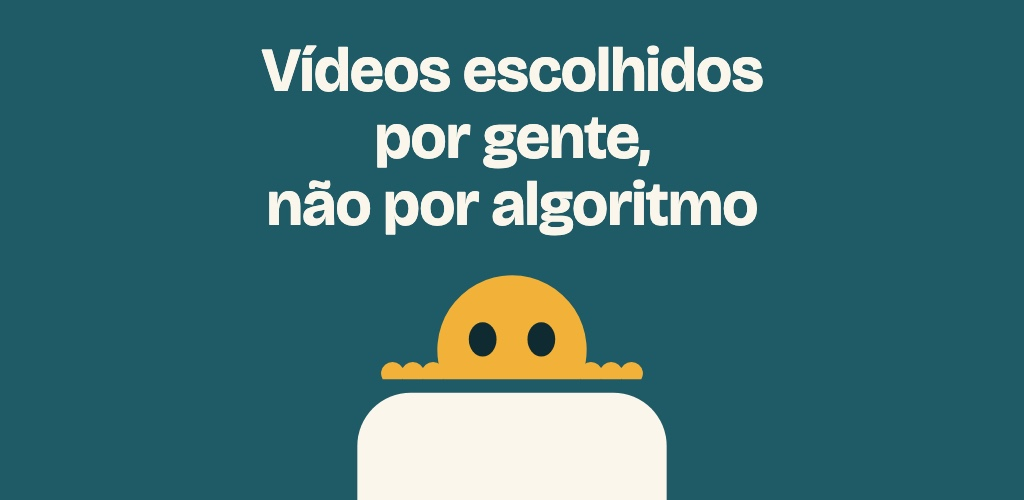
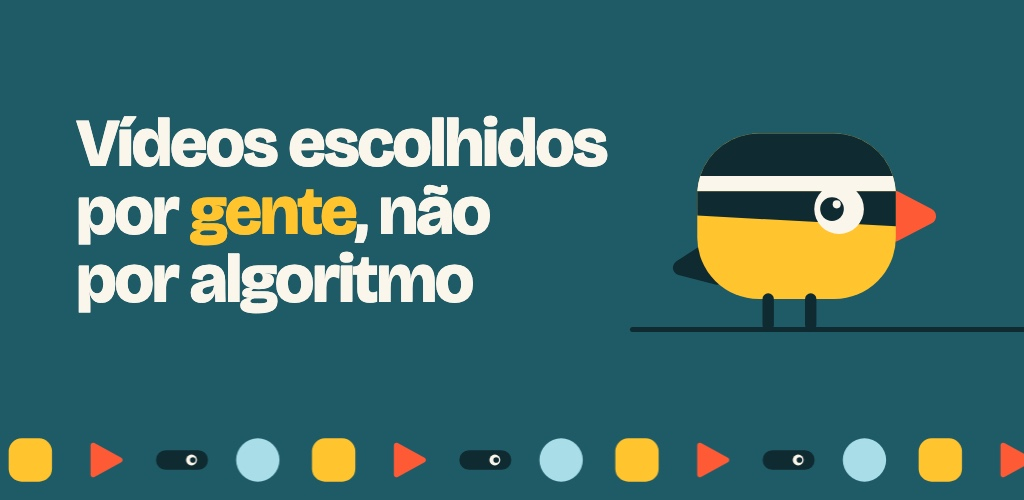
feat(stores): draw the Play feature graphic with the current mascot and sun

diff --git a/app/store_screens/feature.html b/app/store_screens/feature.html
@@ -6,10 +6,12 @@
   <!--
     The Google Play feature graphic, 1024x500: the link preview card's
     composition at the Play size. compose.sh renders it with headless Chrome.
-    Play may crop the edges and lay its own button over the middle, so the
-    headline stays inside the central 600 px. If the brand font does not
-    load, the page stays blank, so the render is caught instead of shipping
-    a fallback.
+    The headline and the mascot are the generated brand drawings and the
+    brand font, kept well inside the edges, which Play may crop; only the
+    wire and the row of the brand pattern run off them. The app's name
+    already sits under the image in the listing, so the wordmark stays out.
+    If the brand font or a drawing does not load, the page stays blank, so
+    the render is caught instead of shipping a fallback.
   -->
   <style>
     @font-face {
@@ -20,8 +22,9 @@
 
     :root {
       --ink: #1E5B66;
-      --sun: #F2B23A;
+      --sun: #FFC42E;
       --cream: #FBF6EC;
+      --dark: #0F2A30;
     }
 
     html,
@@ -40,23 +43,21 @@
       overflow: hidden;
     }
 
-    h1 {
-      position: absolute;
-      top: 38px;
-      left: 212px;
-      right: 212px;
-      margin: 0;
-      text-align: center;
-      font-family: "Bricolage Grotesque", sans-serif;
-      font-weight: 700;
-      font-size: 62px;
-      line-height: 1.08;
-      letter-spacing: -0.015em;
-      color: var(--cream);
-    }
-
     .blank > * {
       display: none;
+    }
+
+    h1 {
+      position: absolute;
+      top: 110px;
+      left: 76px;
+      margin: 0;
+      font-family: "Bricolage Grotesque", sans-serif;
+      font-weight: 800;
+      font-size: 68px;
+      line-height: 1;
+      letter-spacing: -0.035em;
+      color: var(--cream);
     }
 
     h1 span {
@@ -64,40 +65,67 @@
       white-space: nowrap;
     }
 
-    /* The telinha runs off the bottom edge: only the head, the fingers
-       and the top of the screen show, so the mark peeks into the card. */
-    .mark {
+    h1 em {
+      font-style: normal;
+      color: var(--sun);
+    }
+
+    /* The mascot perched on a wire, looking back at the words. */
+    .wire {
       position: absolute;
-      left: 352px;
-      top: 270px;
-      width: 320px;
-      height: auto;
+      left: 630px;
+      right: -20px;
+      top: 327px;
+      height: 5px;
+      border-radius: 3px;
+      background: var(--dark);
+    }
+
+    .mascot {
+      position: absolute;
+      left: 650px;
+      top: 72px;
+      width: 312px;
+      height: 312px;
+    }
+
+    /* One row of the brand pattern along the bottom edge. */
+    .pattern {
+      position: absolute;
+      left: 0;
+      right: 0;
+      bottom: 0;
+      height: 80px;
+      background: url("../../site/public/brand/telinha-segura-pattern-row.svg") left center / auto 80px repeat-x;
     }
   </style>
 </head>
 <body>
   <div class="card">
-    <h1><span>Vídeos escolhidos</span><span>por gente,</span><span>não por algoritmo</span></h1>
-    <!-- The Espiadinha: the head and fingers peek over an empty telinha. -->
-    <svg class="mark" viewBox="2 4 60 57" aria-hidden="true">
-      <path fill="#FBF6EC" d="M13 27H51A10 10 0 0 1 61 37V50A10 10 0 0 1 51 60H13A10 10 0 0 1 3 50V37A10 10 0 0 1 13 27Z"/>
-      <path fill="#F2B23A" d="M19.126 24.5A14 14 0 1 1 44.874 24.5Z"/>
-      <path fill="#F2B23A" d="M7.753 24.5A2.15 2.15 0 1 1 11.447 24.5ZM11.553 24.5A2.15 2.15 0 1 1 15.247 24.5ZM15.353 24.5A2.15 2.15 0 1 1 19.047 24.5ZM44.953 24.5A2.15 2.15 0 1 1 48.647 24.5ZM48.753 24.5A2.15 2.15 0 1 1 52.447 24.5ZM52.553 24.5A2.15 2.15 0 1 1 56.247 24.5Z"/>
-      <ellipse fill="#0F2A30" cx="26.5" cy="17" rx="2.6" ry="3.2"/>
-      <ellipse fill="#0F2A30" cx="37.5" cy="17" rx="2.6" ry="3.2"/>
-    </svg>
+    <h1><span>Vídeos escolhidos</span><span>por <em>gente</em>, não</span><span>por algoritmo</span></h1>
+    <div class="wire"></div>
+    <img class="mascot" src="../../site/public/brand/telinha-segura-mark-looking-back-color.svg" alt="">
+    <div class="pattern"></div>
   </div>
   <script>
-    const brand = '700 10px "Bricolage Grotesque"';
+    const brand = '800 10px "Bricolage Grotesque"';
     const card = document.querySelector(".card");
+    const mascot = document.querySelector(".mascot");
     card.classList.add("blank");
-    document.fonts.load(brand).then(() => document.fonts.ready).then(() => {
-      const loaded = [...document.fonts].some(
-        (f) => f.family.includes("Bricolage Grotesque") && f.status === "loaded");
-      if (loaded && document.fonts.check(brand)) {
-        card.classList.remove("blank");
-      }
-    });
+    const drawn = mascot.complete
+      ? Promise.resolve(mascot.naturalWidth > 0)
+      : new Promise((done) => {
+        mascot.addEventListener("load", () => done(true));
+        mascot.addEventListener("error", () => done(false));
+      });
+    Promise.all([document.fonts.load(brand).then(() => document.fonts.ready), drawn])
+      .then(([, ok]) => {
+        const loaded = [...document.fonts].some(
+          (f) => f.family.includes("Bricolage Grotesque") && f.status === "loaded");
+        if (ok && loaded && document.fonts.check(brand)) {
+          card.classList.remove("blank");
+        }
+      });
   </script>
 </body>
 </html>

diff --git a/tools/repoconfig/store_images_test.go b/tools/repoconfig/store_images_test.go
@@ -199,3 +199,25 @@ func TestPlayIconIsThePlaySize(t *testing.T) {
 		t.Errorf("icon is %dx%d, want 512x512", cfg.Width, cfg.Height)
 	}
 }
+
+// The feature graphic shows the mascot the app shows: the generated brand
+// drawing, the brand's sun, and nothing of the mascot the listing showed
+// before (its name, the head and fingers drawn inline over an empty
+// screen, or the older, duller sun).
+func TestFeatureGraphicShowsTheCurrentMascot(t *testing.T) {
+	src := read(t, "app/store_screens/feature.html")
+	old := regexp.MustCompile(`(?i)espiadinha|#f2b23a|A14 14 0 1 1|A2\.15 2\.15|viewBox="2 4 60 57"`)
+	if m := old.FindString(src); m != "" {
+		t.Errorf("feature.html still carries the previous mascot: %q", m)
+	}
+	if !strings.Contains(strings.ToLower(src), "#ffc42e") {
+		t.Error("feature.html does not set the brand's sun, #FFC42E")
+	}
+	mark := regexp.MustCompile(`src="\.\./\.\./site/public/brand/telinha-segura-mark-[a-z-]+\.svg"`)
+	if !mark.MatchString(src) {
+		t.Error("feature.html does not draw the mascot from a generated brand file")
+	}
+	if !strings.Contains(src, "Vídeos escolhidos") || !strings.Contains(src, "algoritmo") {
+		t.Error("feature.html lost its headline")
+	}
+}
